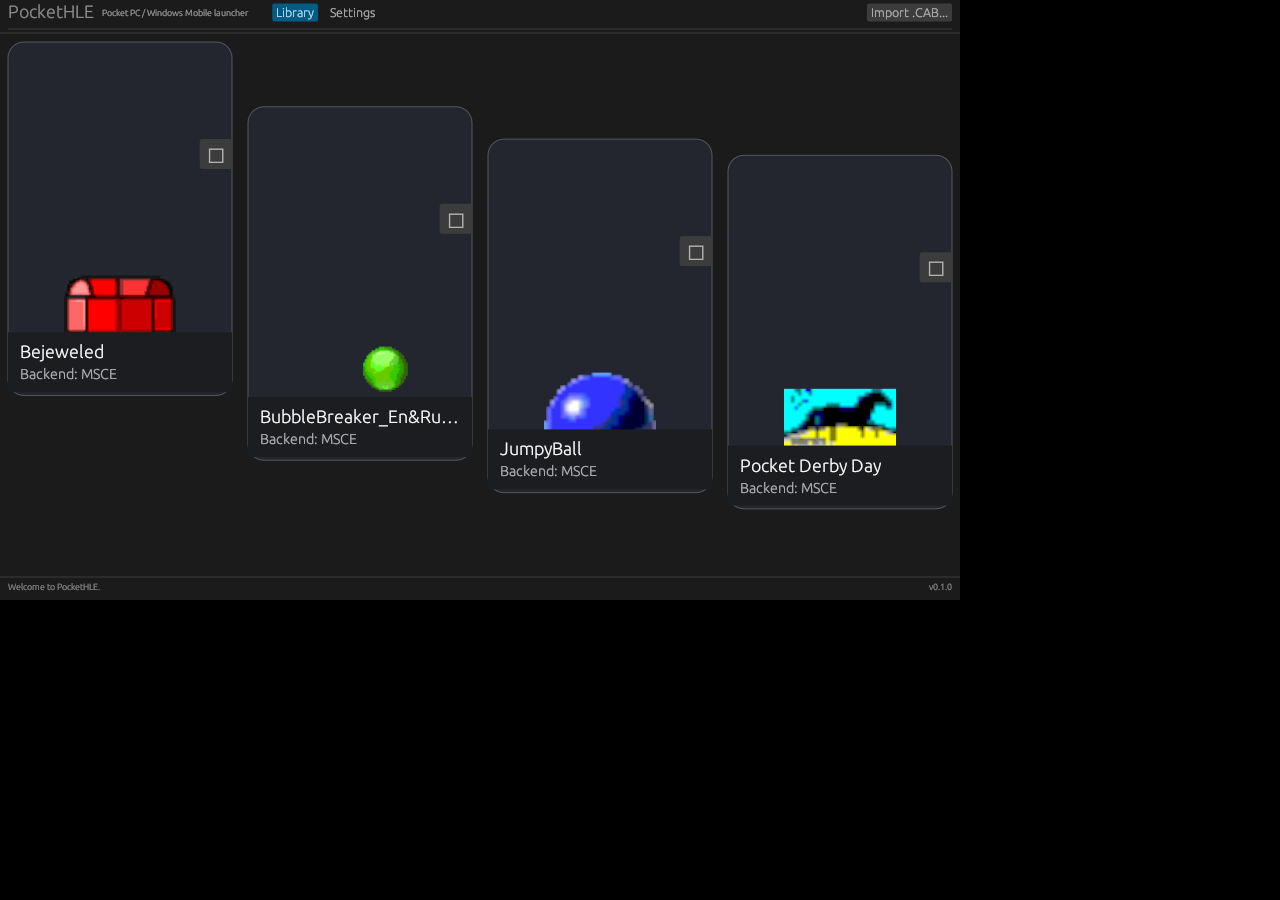
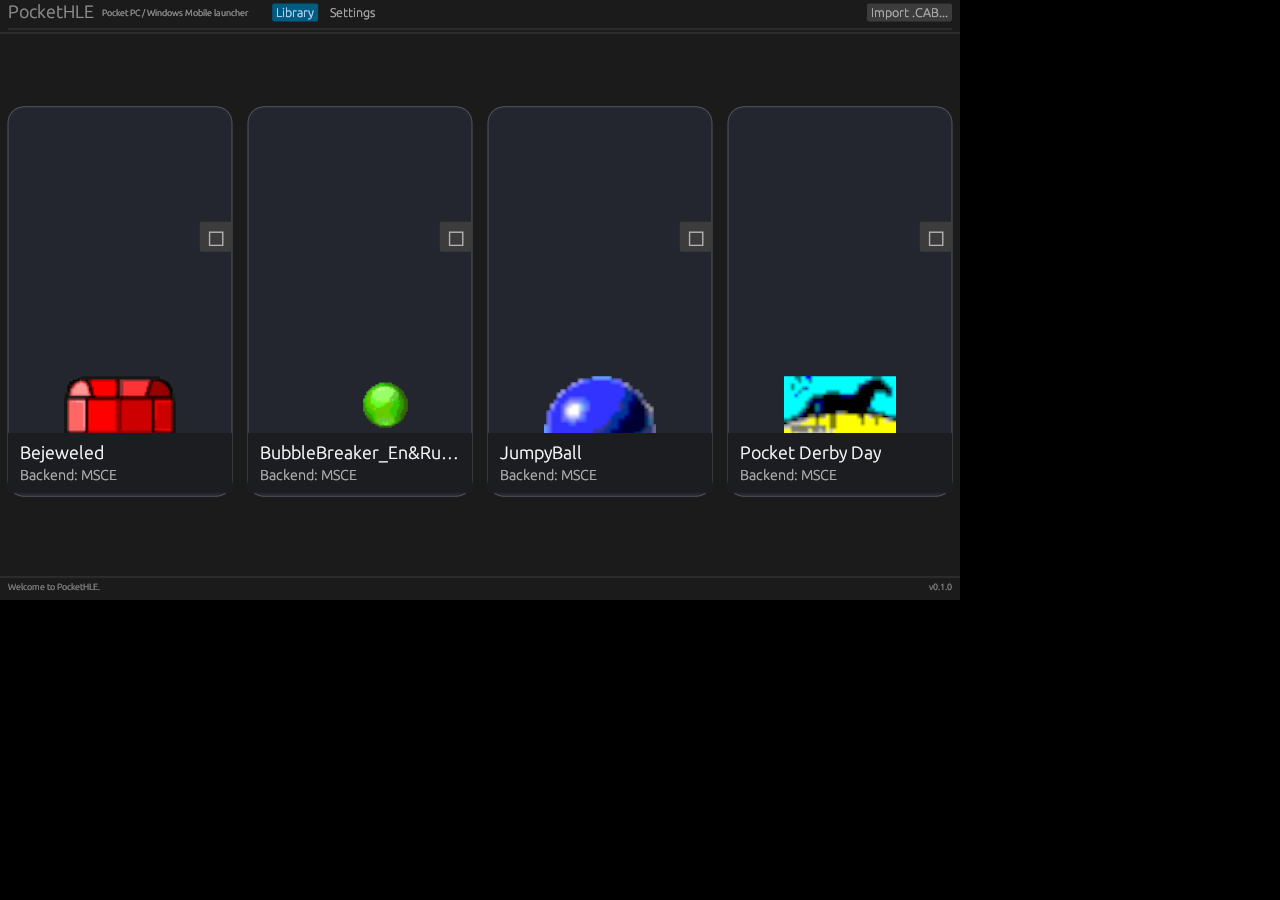
fix(desktop): prevent Windows library rows from stretching

diff --git a/frontends/pocket-desktop/src/app.rs b/frontends/pocket-desktop/src/app.rs
@@ -331,19 +331,19 @@ impl PocketLauncher {
         ScrollArea::vertical().show(ui, |ui| {
             let gap = 16.0;
             let card_width = 224.0;
-            let card_height = 224.0;
             let columns = ((ui.available_width() + gap) / (card_width + gap))
                 .floor()
                 .max(1.0) as usize;
             egui::Grid::new("library_grid")
                 .num_columns(columns)
-                .min_col_width(card_width)
-                .max_col_width(card_width)
-                .min_row_height(card_height)
                 .spacing(Vec2::splat(gap))
                 .show(ui, |ui| {
                     for (index, game) in games.iter().enumerate() {
-                        self.ui_game_card(ui, game, card_width, card_height);
+                        ui.allocate_ui_with_layout(
+                            Vec2::new(card_width, 260.0),
+                            egui::Layout::top_down(egui::Align::Min),
+                            |ui| self.ui_game_card(ui, game, card_width),
+                        );
                         if (index + 1) % columns == 0 {
                             ui.end_row();
                         }
@@ -355,7 +355,7 @@ impl PocketLauncher {
         });
     }
 
-    fn ui_game_card(&mut self, ui: &mut egui::Ui, game: &GameEntry, width: f32, height: f32) {
+    fn ui_game_card(&mut self, ui: &mut egui::Ui, game: &GameEntry, width: f32) {
         let frame = egui::Frame::none()
             .fill(Color32::from_rgb(35, 38, 46))
             .stroke(egui::Stroke::new(1.0_f32, Color32::from_rgb(82, 86, 96)))
@@ -364,11 +364,11 @@ impl PocketLauncher {
         let card = frame.show(ui, |ui| {
             ui.set_min_width(width);
             ui.set_max_width(width);
-            ui.set_min_height(height);
-            ui.set_max_height(height);
+            ui.set_min_height(260.0);
+            ui.set_max_height(260.0);
             ui.vertical(|ui| {
                 ui.set_width(width);
-                ui.set_height(height);
+                ui.set_height(260.0);
                 ui.with_layout(egui::Layout::right_to_left(egui::Align::Center), |ui| {
                     ui.menu_button(RichText::new("⋮").size(24.0), |ui| {
                         if ui.button("Settings").clicked() {
